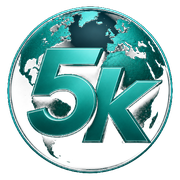
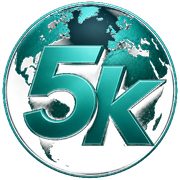
Add files via upload

diff --git a/index.html b/index.html
@@ -4,7 +4,7 @@
 <meta charset="UTF-8">
 <meta name="viewport" content="width=device-width, initial-scale=1.0">
 <title>5kable AI-Powered GeoGuessr Training</title>
[2 lines of base64/hex data omitted]
 <style>
 :root {
   --bg: #080810;
@@ -650,14 +650,14 @@ html { scroll-behavior: smooth; }
 
 <!-- Password Gate — site is under construction -->
 <div id="gate" style="position:fixed;inset:0;background:#080810;z-index:9999;display:flex;align-items:center;justify-content:center;flex-direction:column;">
-  <div style="background:#10101e;border:1px solid #241f14;border-radius:20px;padding:48px 40px;width:100%;max-width:400px;text-align:center;box-shadow:0 24px 80px rgba(0,0,0,0.6);">
+  <div style="background:#10101e;border:1px solid #1e1e35;border-radius:20px;padding:48px 40px;width:100%;max-width:400px;text-align:center;box-shadow:0 24px 80px rgba(0,0,0,0.6);">
     <div style="font-size:36px;margin-bottom:16px;">🔒</div>
     <h1 style="font-size:22px;font-weight:800;margin-bottom:6px;background:linear-gradient(135deg,#00c9a7,#7c3aed);-webkit-background-clip:text;-webkit-text-fill-color:transparent;">5kable</h1>
     <p style="color:#7a7a9a;font-size:14px;margin-bottom:32px;font-family:-apple-system,sans-serif;">Site under construction — come back soon</p>
     <input id="gate-pw" type="password" placeholder="Enter password..." autocomplete="off"
-      style="width:100%;background:#080810;border:1px solid #241f14;border-radius:10px;padding:13px 16px;color:#efeade;font-size:15px;font-family:-apple-system,sans-serif;outline:none;margin-bottom:12px;text-align:center;"
+      style="width:100%;background:#080810;border:1px solid #1e1e35;border-radius:10px;padding:13px 16px;color:#e8e8f5;font-size:15px;font-family:-apple-system,sans-serif;outline:none;margin-bottom:12px;text-align:center;"
       onkeydown="if(event.key==='Enter')checkGate()"
-      onfocus="this.style.borderColor='#00c9a7'" onblur="this.style.borderColor='#241f14'">
+      onfocus="this.style.borderColor='#00c9a7'" onblur="this.style.borderColor='#1e1e35'">
     <button onclick="checkGate()"
       style="width:100%;background:linear-gradient(135deg,#00c9a7,#00c9a7);border:none;color:#080810;font-weight:700;padding:13px;border-radius:10px;cursor:pointer;font-size:15px;font-family:-apple-system,sans-serif;transition:opacity .2s;"
       onmouseover="this.style.opacity='.85'" onmouseout="this.style.opacity='1'">Enter Site</button>
@@ -683,7 +683,7 @@ async function checkGate() {
     document.getElementById('gate-pw').style.borderColor = '#ff6b6b';
     setTimeout(() => {
       err.style.display = 'none';
-      document.getElementById('gate-pw').style.borderColor = '#241f14';
+      document.getElementById('gate-pw').style.borderColor = '#1e1e35';
     }, 2000);
   }
 }
@@ -963,42 +963,42 @@ if (sessionStorage.getItem('kbl_unlocked') === '1') {
           </tr>
         </thead>
         <tbody>
-          <tr style="border-bottom:1px solid #1e1a12;">
+          <tr style="border-bottom:1px solid #1e1e35;">
             <td style="padding:12px 16px;">F7 Scene Captures</td>
             <td style="text-align:center;padding:12px 16px;color:var(--muted);">10 / day</td>
             <td style="text-align:center;padding:12px 16px;color:#f0a500;font-weight:700;">Unlimited</td>
           </tr>
-          <tr style="border-bottom:1px solid #1e1a12;background:rgba(255,255,255,0.02);">
+          <tr style="border-bottom:1px solid #1e1e35;background:rgba(255,255,255,0.02);">
             <td style="padding:12px 16px;">Training Guides</td>
             <td style="text-align:center;padding:12px 16px;color:var(--muted);">10 / day</td>
             <td style="text-align:center;padding:12px 16px;color:#f0a500;font-weight:700;">Unlimited</td>
           </tr>
-          <tr style="border-bottom:1px solid #1e1a12;">
+          <tr style="border-bottom:1px solid #1e1e35;">
             <td style="padding:12px 16px;">114 Countries</td>
             <td style="text-align:center;padding:12px 16px;">✓</td>
             <td style="text-align:center;padding:12px 16px;">✓</td>
           </tr>
-          <tr style="border-bottom:1px solid #1e1a12;background:rgba(255,255,255,0.02);">
+          <tr style="border-bottom:1px solid #1e1e35;background:rgba(255,255,255,0.02);">
             <td style="padding:12px 16px;">AI Analyse Button</td>
             <td style="text-align:center;padding:12px 16px;color:var(--muted);">✗</td>
             <td style="text-align:center;padding:12px 16px;">✓</td>
           </tr>
-          <tr style="border-bottom:1px solid #1e1a12;">
+          <tr style="border-bottom:1px solid #1e1e35;">
             <td style="padding:12px 16px;">Exact GPS Coordinates</td>
             <td style="text-align:center;padding:12px 16px;color:var(--muted);">✗</td>
             <td style="text-align:center;padding:12px 16px;">✓</td>
           </tr>
-          <tr style="border-bottom:1px solid #1e1a12;background:rgba(255,255,255,0.02);">
+          <tr style="border-bottom:1px solid #1e1e35;background:rgba(255,255,255,0.02);">
             <td style="padding:12px 16px;">5K Live Chat</td>
             <td style="text-align:center;padding:12px 16px;color:var(--muted);">✗</td>
             <td style="text-align:center;padding:12px 16px;">✓</td>
           </tr>
-          <tr style="border-bottom:1px solid #1e1a12;">
+          <tr style="border-bottom:1px solid #1e1e35;">
             <td style="padding:12px 16px;">Geography-Enhanced AI</td>
             <td style="text-align:center;padding:12px 16px;color:var(--muted);">✗</td>
             <td style="text-align:center;padding:12px 16px;">✓</td>
           </tr>
-          <tr style="border-bottom:1px solid #1e1a12;background:rgba(255,255,255,0.02);">
+          <tr style="border-bottom:1px solid #1e1e35;background:rgba(255,255,255,0.02);">
             <td style="padding:12px 16px;">Early Access Features</td>
             <td style="text-align:center;padding:12px 16px;color:var(--muted);">✗</td>
             <td style="text-align:center;padding:12px 16px;">✓</td>
@@ -1070,14 +1070,14 @@ if (sessionStorage.getItem('kbl_unlocked') === '1') {
 
       <div style="margin-top:32px">
         <div class="section-label" style="text-align:center;margin-bottom:12px">See It In Action</div>
-        <div style="border-radius:12px;overflow:hidden;background:#1c1712;border:1px solid #1e1e35;aspect-ratio:16/9;margin-bottom:20px">
+        <div style="border-radius:12px;overflow:hidden;background:#0d0d18;border:1px solid #1e1e35;aspect-ratio:16/9;margin-bottom:20px">
           <iframe width="100%" height="100%" src="https://www.youtube.com/embed/XWjrXicKWc4" title="5kable Installation Guide" frameborder="0" allow="accelerometer; autoplay; clipboard-write; encrypted-media; gyroscope; picture-in-picture; web-share" allowfullscreen style="display:block;"></iframe>
         </div>
         <div style="display:grid;grid-template-columns:1fr 1fr;gap:12px;align-items:center;">
-          <div style="border-radius:10px;overflow:hidden;background:#1c1712;border:1px solid #1e1e35;aspect-ratio:346/353;">
+          <div style="border-radius:10px;overflow:hidden;background:#0d0d18;border:1px solid #1e1e35;aspect-ratio:346/353;">
             <img src="screenshot-analysis.png" alt="5kable Analysis Panel" style="width:100%;height:100%;object-fit:cover;display:block;">
           </div>
-          <div style="border-radius:10px;overflow:hidden;background:#1c1712;border:1px solid #1e1e35;aspect-ratio:498/727;">
+          <div style="border-radius:10px;overflow:hidden;background:#0d0d18;border:1px solid #1e1e35;aspect-ratio:498/727;">
             <img src="screenshot-training.png" alt="5kable Training Guide" style="width:100%;height:100%;object-fit:cover;display:block;">
           </div>
         </div>
@@ -2592,12 +2592,15 @@ async function loadWorldMap(token){
     container.querySelectorAll('svg').forEach(el => el.remove());
 
     const width = container.clientWidth || 800;
-    const height = 340;
+    const height = Math.max(340, Math.round(width * 0.5));
     const svg = d3.select(container).append('svg')
       .attr('viewBox', `0 0 ${width} ${height}`)
       .attr('width', '100%')
       .attr('height', height)
-      .style('display', 'block');
+      .attr('draggable', 'false')
+      .style('display', 'block')
+      .style('-webkit-user-drag', 'none')
+      .style('user-select', 'none');
     const projection = d3.geoNaturalEarth1().fitSize([width, height], {type:'Sphere'});
     const path = d3.geoPath(projection);
 
@@ -2611,10 +2614,10 @@ async function loadWorldMap(token){
       .attr('d', path)
       .attr('fill', d => {
         const name = WORLDMAP_COUNTRY_ID_NAME[String(d.id)];
-        if (!name) return '#171410';
+        if (!name) return '#10101e';
         const variants = WORLDMAP_ALIASES[name] || [name];
         const correct = Math.max(0, ...variants.map(v => correctByCountry[_gaxNormalizeCountry(v)] || 0));
-        return correct >= DIAMOND_THRESHOLD ? 'var(--teal)' : '#171410';
+        return correct >= DIAMOND_THRESHOLD ? 'var(--teal)' : '#10101e';
       })
       .attr('stroke', '#080810')
       .attr('stroke-width', 0.5)
@@ -2638,7 +2641,7 @@ async function loadWorldMap(token){
         const name = WORLDMAP_COUNTRY_ID_NAME[String(d.id)];
         const variants = name ? (WORLDMAP_ALIASES[name] || [name]) : [];
         const correct = name ? Math.max(0, ...variants.map(v => correctByCountry[_gaxNormalizeCountry(v)] || 0)) : 0;
-        d3.select(this).attr('fill', name ? (correct >= DIAMOND_THRESHOLD ? 'var(--teal)' : '#171410') : '#171410');
+        d3.select(this).attr('fill', name ? (correct >= DIAMOND_THRESHOLD ? 'var(--teal)' : '#10101e') : '#10101e');
         if (tipEl) tipEl.textContent = 'Hover a country to see your progress.';
       });
   } catch(e) {
@@ -2848,7 +2851,7 @@ function showAccountSettings() {
     <div style="background:#10101e;border:1px solid #1e1e35;border-radius:20px;padding:36px;width:460px;max-width:96vw;max-height:92vh;overflow-y:auto;box-shadow:0 30px 80px rgba(0,0,0,0.8);">
       <div style="display:flex;align-items:center;justify-content:space-between;margin-bottom:28px;">
         <div style="font-size:20px;font-weight:800;">⚙️ Account Settings</div>
-        <button onclick="document.getElementById('gax-settings-modal').remove()" style="background:rgba(255,255,255,0.05);border:1px solid #2c2618;color:#aaa;cursor:pointer;border-radius:8px;width:32px;height:32px;font-size:16px;">✕</button>
+        <button onclick="document.getElementById('gax-settings-modal').remove()" style="background:rgba(255,255,255,0.05);border:1px solid #1e1e35;color:#aaa;cursor:pointer;border-radius:8px;width:32px;height:32px;font-size:16px;">✕</button>
       </div>
 
       <!-- Avatar -->
@@ -2868,7 +2871,7 @@ function showAccountSettings() {
       <!-- Display Name -->
       <div style="margin-bottom:16px;">
         <label style="color:#8888aa;font-size:11px;font-weight:700;letter-spacing:1px;text-transform:uppercase;display:block;margin-bottom:6px;">DISPLAY NAME</label>
-        <input id="settings-displayname" type="text" value="${currentName}" maxlength="20" placeholder="Your display name" style="width:100%;box-sizing:border-box;background:#1c1712;border:1px solid #2c2618;color:#eee;padding:11px 14px;border-radius:10px;font-size:14px;outline:none;" onfocus="this.style.borderColor='#00c9a7';this.style.boxShadow='0 0 0 3px rgba(0,201,167,0.1)'" onblur="this.style.borderColor='#2c2618';this.style.boxShadow='none'"/>
+        <input id="settings-displayname" type="text" value="${currentName}" maxlength="20" placeholder="Your display name" style="width:100%;box-sizing:border-box;background:#0d0d18;border:1px solid #1e1e35;color:#eee;padding:11px 14px;border-radius:10px;font-size:14px;outline:none;" onfocus="this.style.borderColor='#00c9a7';this.style.boxShadow='0 0 0 3px rgba(0,201,167,0.1)'" onblur="this.style.borderColor='#1e1e35';this.style.boxShadow='none'"/>
         <div style="color:#5a5a7a;font-size:11px;margin-top:4px;">Max 20 characters · No offensive language</div>
       </div>
 
@@ -2905,9 +2908,9 @@ function showAccountSettings() {
           <span id="pwd-toggle-icon" style="color:#6a6a9a;font-size:12px;">▼</span>
         </div>
         <div id="password-section" style="display:none;margin-top:12px;">
-          <input id="settings-current-pwd" type="password" placeholder="Current password" style="width:100%;box-sizing:border-box;background:#1c1712;border:1px solid #2c2618;color:#eee;padding:10px 14px;border-radius:10px;font-size:13px;outline:none;margin-bottom:8px;" onfocus="this.style.borderColor='#00c9a7'" onblur="this.style.borderColor='#2c2618'"/>
-          <input id="settings-new-pwd" type="password" placeholder="New password (min 6 chars)" style="width:100%;box-sizing:border-box;background:#1c1712;border:1px solid #2c2618;color:#eee;padding:10px 14px;border-radius:10px;font-size:13px;outline:none;margin-bottom:8px;" onfocus="this.style.borderColor='#00c9a7'" onblur="this.style.borderColor='#2c2618'"/>
-          <input id="settings-confirm-pwd" type="password" placeholder="Confirm new password" style="width:100%;box-sizing:border-box;background:#1c1712;border:1px solid #2c2618;color:#eee;padding:10px 14px;border-radius:10px;font-size:13px;outline:none;" onfocus="this.style.borderColor='#00c9a7'" onblur="this.style.borderColor='#2c2618'"/>
+          <input id="settings-current-pwd" type="password" placeholder="Current password" style="width:100%;box-sizing:border-box;background:#0d0d18;border:1px solid #1e1e35;color:#eee;padding:10px 14px;border-radius:10px;font-size:13px;outline:none;margin-bottom:8px;" onfocus="this.style.borderColor='#00c9a7'" onblur="this.style.borderColor='#1e1e35'"/>
+          <input id="settings-new-pwd" type="password" placeholder="New password (min 6 chars)" style="width:100%;box-sizing:border-box;background:#0d0d18;border:1px solid #1e1e35;color:#eee;padding:10px 14px;border-radius:10px;font-size:13px;outline:none;margin-bottom:8px;" onfocus="this.style.borderColor='#00c9a7'" onblur="this.style.borderColor='#1e1e35'"/>
+          <input id="settings-confirm-pwd" type="password" placeholder="Confirm new password" style="width:100%;box-sizing:border-box;background:#0d0d18;border:1px solid #1e1e35;color:#eee;padding:10px 14px;border-radius:10px;font-size:13px;outline:none;" onfocus="this.style.borderColor='#00c9a7'" onblur="this.style.borderColor='#1e1e35'"/>
         </div>
       </div>
 
@@ -2925,7 +2928,7 @@ function showAccountSettings() {
           <div id="twofa-qr" style="text-align:center;margin-bottom:12px;"></div>
           <div style="font-size:12px;color:#aaa;margin-bottom:8px;">2. Enter the 6-digit code to confirm</div>
           <div style="display:flex;gap:8px;">
-            <input id="twofa-code" type="text" maxlength="6" placeholder="000000" style="flex:1;background:#1c1712;border:1px solid #2c2618;color:#eee;padding:9px 12px;border-radius:8px;font-size:16px;letter-spacing:6px;text-align:center;outline:none;" onfocus="this.style.borderColor='#7c3aed'" onblur="this.style.borderColor='#2c2618'"/>
+            <input id="twofa-code" type="text" maxlength="6" placeholder="000000" style="flex:1;background:#0d0d18;border:1px solid #1e1e35;color:#eee;padding:9px 12px;border-radius:8px;font-size:16px;letter-spacing:6px;text-align:center;outline:none;" onfocus="this.style.borderColor='#7c3aed'" onblur="this.style.borderColor='#1e1e35'"/>
             <button onclick="confirm2FA()" style="background:#7c3aed;color:#fff;border:none;border-radius:8px;padding:9px 16px;font-weight:700;cursor:pointer;">Verify</button>
           </div>
           <div id="twofa-msg" style="font-size:11px;margin-top:6px;text-align:center;"></div>
@@ -2936,7 +2939,7 @@ function showAccountSettings() {
           </div>
           <div style="font-size:12px;color:#6a6a9a;margin-bottom:8px;">Enter your authenticator code to disable:</div>
           <div style="display:flex;gap:8px;">
-            <input id="twofa-disable-code" type="text" maxlength="6" placeholder="000000" style="flex:1;background:#1c1712;border:1px solid #2c2618;color:#eee;padding:9px 12px;border-radius:8px;font-size:16px;letter-spacing:6px;text-align:center;outline:none;"/>
+            <input id="twofa-disable-code" type="text" maxlength="6" placeholder="000000" style="flex:1;background:#0d0d18;border:1px solid #1e1e35;color:#eee;padding:9px 12px;border-radius:8px;font-size:16px;letter-spacing:6px;text-align:center;outline:none;"/>
             <button onclick="disable2FA()" style="background:#ff4c6a;color:#fff;border:none;border-radius:8px;padding:9px 16px;font-weight:700;cursor:pointer;">Disable</button>
           </div>
           <div id="twofa-disable-msg" style="font-size:11px;margin-top:6px;text-align:center;"></div>
@@ -3129,7 +3132,7 @@ async function loadBadgesIntoSettings(){
     if (data.earned && data.earned.length) {
       html += `<div style="display:flex;gap:8px;flex-wrap:wrap;margin-bottom:10px;">` + data.earned.map(b => {
         const isActive = data.active === b.country;
-        return `<div onclick="setBadge(${JSON.stringify(b.country)})" title="${escapeHtmlLocal(b.country)} — ${b.correct} correct" style="cursor:pointer;padding:6px 10px;border-radius:10px;display:flex;align-items:center;gap:6px;background:${isActive ? 'rgba(0,201,167,0.15)' : '#1c1712'};border:1.5px solid ${isActive ? '#00c9a7' : '#2c2618'};transition:all .15s;" onmouseover="if(!${isActive}){this.style.borderColor='#00c9a7'}" onmouseout="if(!${isActive}){this.style.borderColor='#2c2618'}">
+        return `<div onclick="setBadge(${JSON.stringify(b.country)})" title="${escapeHtmlLocal(b.country)} — ${b.correct} correct" style="cursor:pointer;padding:6px 10px;border-radius:10px;display:flex;align-items:center;gap:6px;background:${isActive ? 'rgba(0,201,167,0.15)' : '#0d0d18'};border:1.5px solid ${isActive ? '#00c9a7' : '#1e1e35'};transition:all .15s;" onmouseover="if(!${isActive}){this.style.borderColor='#00c9a7'}" onmouseout="if(!${isActive}){this.style.borderColor='#1e1e35'}">
           ${renderBadgeImg(b.country, 20)}
           <span style="font-size:12px;color:${isActive ? '#00c9a7' : '#eee'};font-weight:${isActive ? '700' : '500'};">${escapeHtmlLocal(b.country)}</span>
         </div>`;
@@ -3146,7 +3149,7 @@ async function loadBadgesIntoSettings(){
         const pct = Math.round(100 * p.correct / threshold);
         return `<div style="display:flex;align-items:center;gap:10px;padding:4px 0;font-size:12px;">
           <div style="width:110px;flex-shrink:0;color:#aaa;">${escapeHtmlLocal(p.country)}</div>
-          <div style="flex:1;background:#1c1712;border-radius:5px;height:6px;overflow:hidden;">
+          <div style="flex:1;background:#0d0d18;border-radius:5px;height:6px;overflow:hidden;">
             <div style="width:${pct}%;height:100%;background:linear-gradient(90deg,#7c3aed,#00c9a7);transition:width .4s ease;"></div>
           </div>
           <div style="width:50px;text-align:right;color:#6a6a9a;flex-shrink:0;">${p.correct}/${threshold}</div>
@@ -3225,7 +3228,7 @@ function showPaymentHistory() {
   closeUserMenu();
   const overlay = document.createElement('div');
   overlay.style.cssText = 'position:fixed;inset:0;background:rgba(0,0,0,0.85);z-index:2000;display:flex;align-items:center;justify-content:center;';
-  overlay.innerHTML = `<div style="background:#151210;border:1px solid #2c2618;border-radius:16px;padding:36px;width:420px;max-width:95vw;">
+  overlay.innerHTML = `<div style="background:#10101e;border:1px solid #1e1e35;border-radius:16px;padding:36px;width:420px;max-width:95vw;">
     <div style="display:flex;justify-content:space-between;align-items:center;margin-bottom:20px;">
       <div style="font-size:18px;font-weight:700;">Payment History</div>
       <button onclick="this.closest('[style*=fixed]').remove()" style="background:none;border:none;color:#6a6a9a;font-size:20px;cursor:pointer;">✕</button>
@@ -3243,7 +3246,7 @@ function showPaymentMethods() {
   closeUserMenu();
   const overlay = document.createElement('div');
   overlay.style.cssText = 'position:fixed;inset:0;background:rgba(0,0,0,0.85);z-index:2000;display:flex;align-items:center;justify-content:center;';
-  overlay.innerHTML = `<div style="background:#151210;border:1px solid #2c2618;border-radius:16px;padding:36px;width:420px;max-width:95vw;">
+  overlay.innerHTML = `<div style="background:#10101e;border:1px solid #1e1e35;border-radius:16px;padding:36px;width:420px;max-width:95vw;">
     <div style="display:flex;justify-content:space-between;align-items:center;margin-bottom:20px;">
       <div style="font-size:18px;font-weight:700;">Payment Methods</div>
       <button onclick="this.closest('[style*=fixed]').remove()" style="background:none;border:none;color:#6a6a9a;font-size:20px;cursor:pointer;">✕</button>

diff --git a/region-map.html b/region-map.html
@@ -25,8 +25,6 @@
     --covered-fill-hover: rgba(31,227,196,0.95);
     --uncovered-fill: #000000;
     --uncovered-stroke: #1e1e35;
-    --amber: #f0a500;
-    --amber-fill: rgba(240,165,0,0.85);
     --danger: #ff4c6a;
 
     /* Map-canvas colors — kept separate from the UI-chrome variables above
@@ -111,25 +109,23 @@
     gap:10px;
     font-family: var(--font-display);
   }
-  .brand .mark{
+  .home-link{
+    display:flex; align-items:center; gap:6px;
     color: var(--covered-hover);
-    font-size:11px;
-    letter-spacing:.18em;
-    font-family: var(--font-mono);
+    font-size:13px; font-weight:700;
+    font-family: var(--font-display);
     border:1px solid var(--covered);
-    padding:2px 6px;
-    border-radius:3px;
+    padding:6px 12px;
+    border-radius:8px;
+    text-decoration:none;
+    transition:background .15s, color .15s;
   }
+  .home-link:hover{ background:rgba(0,201,167,0.1); color:#fff; }
   .brand h1{
     font-size:18px;
     font-weight:600;
     margin:0;
     letter-spacing:.01em;
-  }
-  .brand .sub{
-    color: var(--muted);
-    font-size:12px;
-    letter-spacing:.02em;
   }
   .hdr-right{
     display:flex;
@@ -222,10 +218,6 @@
   .country.covered:hover{
     fill: var(--map-land-hover);
   }
-  .country.selected{
-    fill: var(--amber-fill) !important;
-    stroke: #3a2a0d;
-  }
 
   .label-layer text{
     font-family: var(--font-mono);
@@ -238,7 +230,7 @@
     stroke-linejoin: round;
     pointer-events:none;
   }
-  .label-layer circle{ fill: var(--amber); }
+  .label-layer circle{ fill: var(--covered); }
 
   /* zoom controls */
   .annotate-toolbar{
@@ -377,7 +369,7 @@
     gap:6px;
   }
   .panel-toggle-btn .badge{
-    background: var(--amber);
+    background: var(--covered);
     color:#0a0a14;
     font-weight:700;
     border-radius:10px;
@@ -483,8 +475,8 @@
     background: var(--covered);
     flex-shrink:0;
   }
-  .region-chip.active .dot{ background: var(--amber); }
-  .region-chip.active{ color: var(--amber); }
+  .region-chip.active .dot{ background: var(--covered); }
+  .region-chip.active{ color: var(--covered); }
   .region-chip.hidden{ display:none; }
 
   /* ---------- footer ---------- */
@@ -516,7 +508,6 @@
     }
     aside.open{ transform: translateX(0); }
     .panel-toggle-btn{ display:flex; }
-    .brand .sub{ display:none; }
   }
 </style>
 </head>
@@ -529,11 +520,11 @@
 
   <header>
     <div class="brand">
-      <a href="/" class="mark" title="Back to 5kable" style="display:inline-flex;align-items:center;justify-content:center;text-decoration:none;">
-        <svg width="14" height="14" viewBox="0 0 24 24" fill="none" stroke="currentColor" stroke-width="2.2" stroke-linecap="round" stroke-linejoin="round"><path d="M3 11.5 12 4l9 7.5"/><path d="M5 10v9a1 1 0 0 0 1 1h4v-6h4v6h4a1 1 0 0 0 1-1v-9"/></svg>
+      <a href="/" class="home-link" title="Back to 5kable">
+        <svg width="16" height="16" viewBox="0 0 24 24" fill="currentColor"><path d="M10 20v-6h4v6h5v-8h3L12 3 2 12h3v8z"/></svg>
+        <span>Home</span>
       </a>
       <h1>Region Map</h1>
-      <span class="sub">GeoGuessr world coverage reference</span>
     </div>
     <div class="hdr-right">
       <div class="search-wrap">
@@ -577,7 +568,6 @@
       </div>
       <div class="legend">
         <div class="item"><span class="sw" style="background:var(--map-land)"></span> Covered</div>
-        <div class="item"><span class="sw" style="background:var(--amber)"></span> Selected</div>
         <div class="item"><span class="sw" style="background:var(--map-land-nocode);border:1px solid var(--map-land-nocode-stroke)"></span> No coverage</div>
       </div>
     </div>

diff --git a/camera-gen-game.html b/camera-gen-game.html
@@ -72,7 +72,7 @@
 <body>
 
 <header>
-  <span class="logo">5kable</span>
[1 lines of base64/hex data omitted]
   <a href="/" class="home-btn" title="Home">
     <svg width="18" height="18" viewBox="0 0 24 24" fill="currentColor"><path d="M10 20v-6h4v6h5v-8h3L12 3 2 12h3v8z"/></svg>
   </a>

diff --git a/daily-challenge.html b/daily-challenge.html
@@ -75,7 +75,7 @@
 <body>
 
 <header>
-  <span class="logo">5kable</span>
[1 lines of base64/hex data omitted]
   <a href="/" class="home-btn" title="Home">
     <svg width="18" height="18" viewBox="0 0 24 24" fill="currentColor"><path d="M10 20v-6h4v6h5v-8h3L12 3 2 12h3v8z"/></svg>
   </a>

diff --git a/photo-quiz-game.html b/photo-quiz-game.html
@@ -72,7 +72,7 @@
 <body>
 
 <header>
-  <span class="logo">5kable</span>
[1 lines of base64/hex data omitted]
   <a href="/" class="home-btn" title="Home">
     <svg width="18" height="18" viewBox="0 0 24 24" fill="currentColor"><path d="M10 20v-6h4v6h5v-8h3L12 3 2 12h3v8z"/></svg>
   </a>